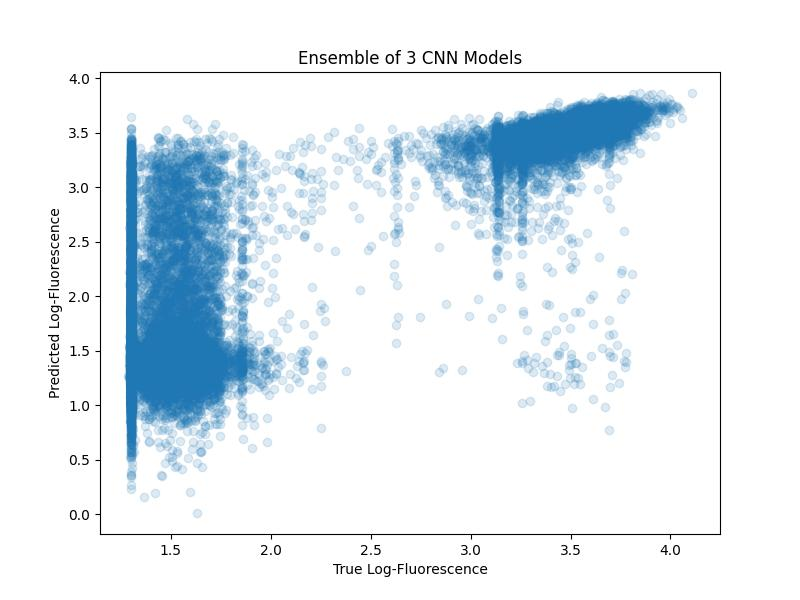
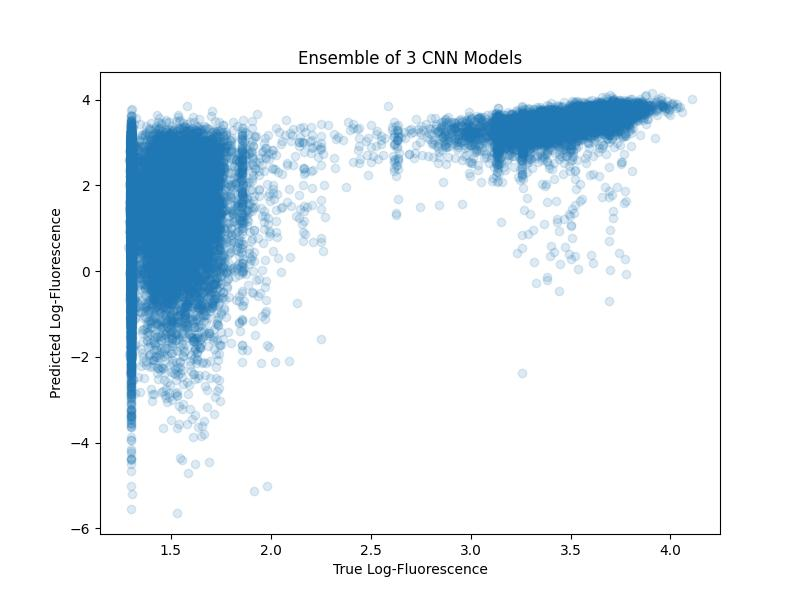
adding feed-forward models

diff --git a/ProtMIMO/model.py b/ProtMIMO/model.py
@@ -103,3 +103,61 @@ class ProtMIMOOracle(nn.Module):
         x = self.mhl(x)
 
         return x
+
+
+class ProtMIMOFFOracle(nn.Module):
+    """
+    MIMO oracle for proteins.
+    """
+    
+    def __init__(self, alphabet, max_len, num_inputs=1, hidden_dim=64,
+                 hidden_dims=[32]):
+        super().__init__()
+        self.alphabet = alphabet
+        self.max_len = max_len
+        self.num_inputs = num_inputs
+        self.hidden_dim = hidden_dim
+        self.hidden_dims = hidden_dims
+        
+        encoder_layers = []
+        encoder_layers.append(nn.Linear(self.max_len * self.num_inputs, self.hidden_dim))
+        encoder_layers.append(nn.ReLU())
+        self.encoder = nn.Sequential(*encoder_layers)
+        
+        ff_blocks = []
+        num_ff_blocks = len(self.hidden_dims)
+        for i in range(num_ff_blocks):
+            input_dim = self.hidden_dim if i == 0 else self.hidden_dims[i-1]
+            output_dim = self.hidden_dims[i]
+            ff_block = []
+            ff_block.append(nn.Linear(input_dim, output_dim))
+            ff_block.append(nn.ReLU())
+            ff_blocks.append(nn.Sequential(*ff_block))
+
+        self.ff_layers = nn.Sequential(*ff_blocks)
+        self.flatten = nn.Flatten()
+
+        num_outputs = 1 # 1 for regression
+        self.mhl = MultiHeadLinear(self.hidden_dims[-1] * len(self.alphabet.keys()), num_outputs, self.num_inputs)
+
+        
+    def forward(self, x):
+        # Encode sequences to concatenated tokens
+        x = batch_seq_encode(x, self.alphabet, self.max_len)
+        x = torch.tensor(x)
+
+        # One-hot encode
+        x = F.one_hot(x.to(torch.int64), num_classes=len(self.alphabet.keys())).float()
+        x = x.permute(0, 2, 1)
+        
+        # Encode
+        x = self.encoder(x)
+
+        # Feed-forward blocks
+        x = self.ff_layers(x)
+        x = self.flatten(x)
+
+        # Multi-head linear layer
+        x = self.mhl(x)
+
+        return x

diff --git a/ProtMIMO/train_fluorescence.py b/ProtMIMO/train_fluorescence.py
@@ -13,7 +13,7 @@ from sklearn.metrics import mean_squared_error
 from pprint import pprint
 import matplotlib.pyplot as plt
 
-from model import ProtMIMOOracle
+from model import ProtMIMOOracle, ProtMIMOFFOracle
 import tape
 from tape.datasets import LMDBDataset
 
@@ -231,14 +231,21 @@ training_data = create_batched_gfp_train_data(train_df=train_df, num_inputs=num_
 val_data = create_batched_gfp_train_data(train_df=val_df, num_inputs=num_inputs, bs=bs)
 test_data = create_batched_gfp_test_data(test_df=test_df, num_inputs=num_inputs, bs=bs)
 
-model = ProtMIMOOracle(
+#model = ProtMIMOOracle(
+#    alphabet=GFP_ALPHABET,
+#    max_len=GFP_SEQ_LEN,
+#    num_inputs=num_inputs,
+#    hidden_dim=512,
+#    channels=[32, 16, 8],
+#    kernel_sizes=[7, 5, 3],
+#    pooling_dims=[3, 2, 0],
+#)
+model = ProtMIMOFFOracle(
     alphabet=GFP_ALPHABET,
     max_len=GFP_SEQ_LEN,
     num_inputs=num_inputs,
     hidden_dim=512,
-    channels=[32, 16, 8],
-    kernel_sizes=[7, 5, 3],
-    pooling_dims=[3, 2, 0],
+    hidden_dims=[256, 128, 64],
 )
 best_model = copy.deepcopy(model)
 
@@ -290,15 +297,23 @@ ensemble_val_data = create_batched_gfp_train_data(train_df=val_df, num_inputs=1,
 ensemble_test_data = create_batched_gfp_test_data(test_df=test_df, num_inputs=1, bs=bs)
 
 models = [
-    ProtMIMOOracle(
+#    ProtMIMOOracle(
+#        alphabet=GFP_ALPHABET,
+#        max_len=GFP_SEQ_LEN,
+#        num_inputs=1,
+#        hidden_dim=512,
+#        channels=[32, 16, 8],
+#        kernel_sizes=[7, 5, 3],
+#        pooling_dims=[3, 2, 0],
+#    )
+    ProtMIMOFFOracle(
         alphabet=GFP_ALPHABET,
         max_len=GFP_SEQ_LEN,
         num_inputs=1,
         hidden_dim=512,
-        channels=[32, 16, 8],
-        kernel_sizes=[7, 5, 3],
-        pooling_dims=[3, 2, 0],
-    ) for _ in range(num_inputs)
+        hidden_dims=[256, 128, 64],
+    )
+    for _ in range(num_inputs)
 ]
 
 best_models = copy.deepcopy(models)
